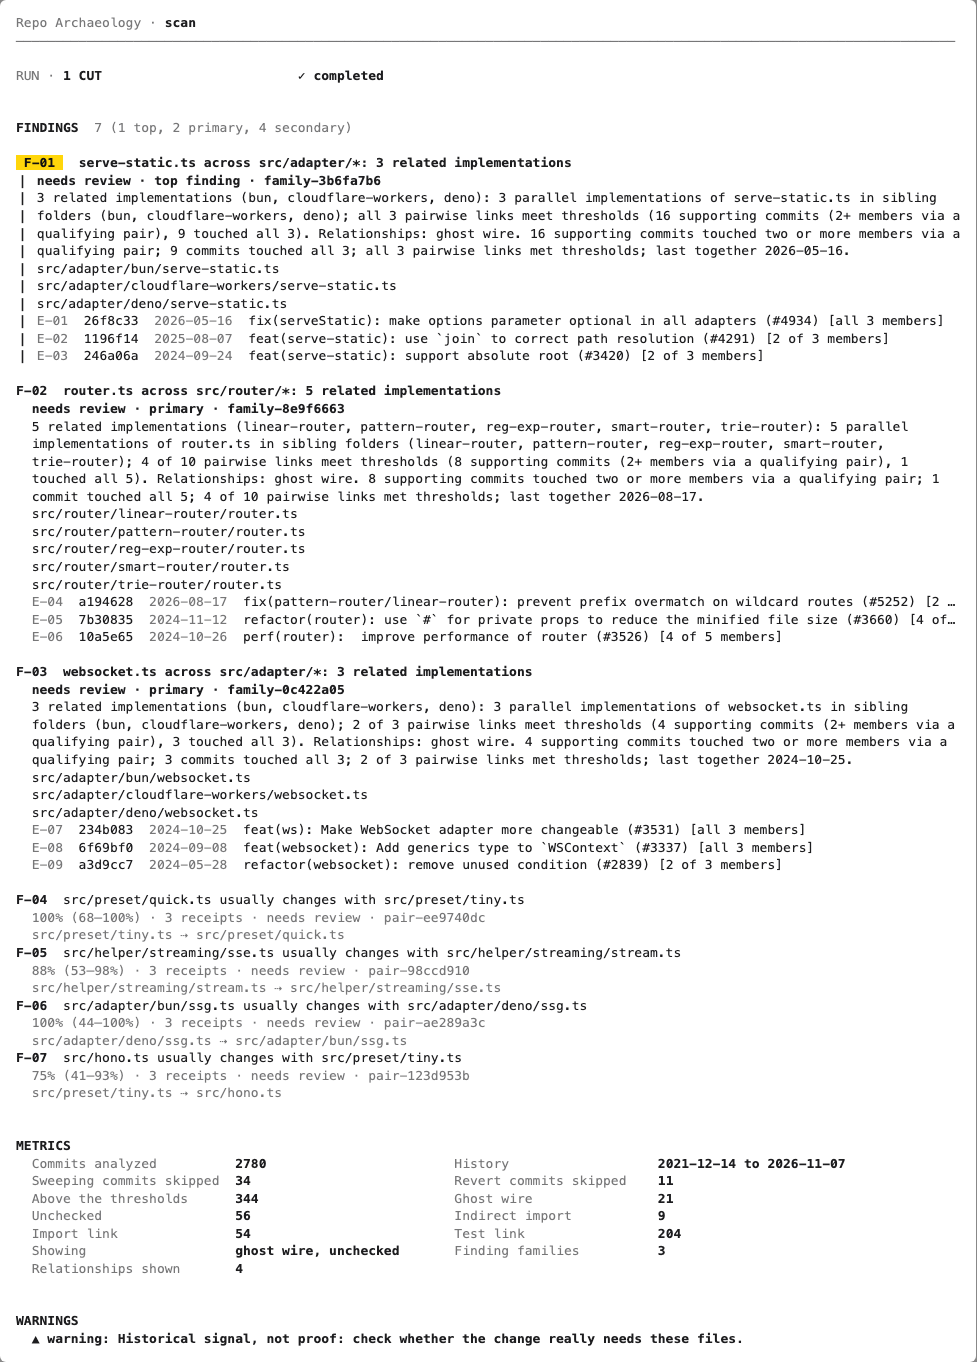
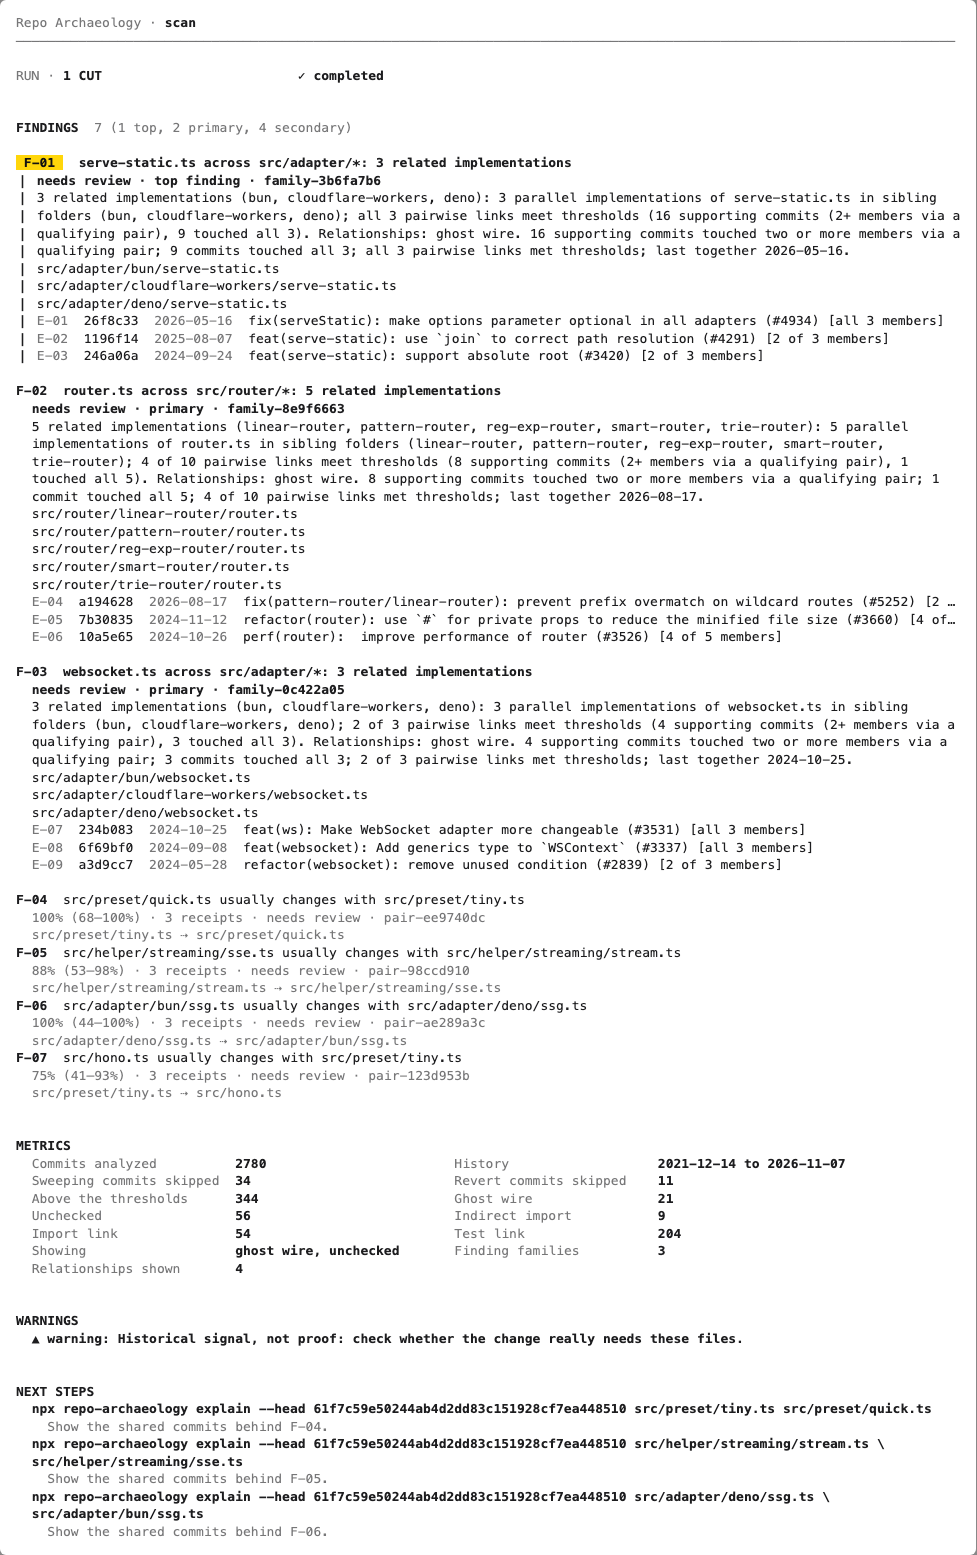
docs: next steps, FRAME12_* variables and the width rule match the code

diff --git a/README.md b/README.md
@@ -466,7 +466,7 @@ repo-archaeology diff --head <pr-sha> --base <base-sha> --config-from <base-sha>
 - one marker chip, on the top finding (`F-01`); the next two are primary cards and the rest compact lines;
 - **metrics**: the counts the classic output shows (commits analyzed, skipped sweeps and reverts, changed files, kinds, counterexamples...);
 - **warnings**: what to keep in mind (the historical-signal disclaimer, silence diagnostics, explain bounds);
-- **next steps**: copyable `explain` commands for the top findings (shell-quoted, wrapped with `\` continuations so they still run).
+- **next steps**: copyable `explain` commands for the first three relationships (shell-quoted, wrapped with `\` continuations so they still run), and for `explain`, the `--style classic` command that shows its patch hunks.
 
 Every number in rich output is a number from `--json` (percentages rounded the same way everywhere). `--json`, `--format markdown`, `classic` and the HTML map are byte-identical to before. `explain`'s patch hunks are not part of the rich layout; rich `explain` suggests the `--style classic` command that shows them.
 
@@ -492,7 +492,7 @@ The full gallery (`scan` and `diff` at 40, 80 and 120 columns, light and dark) i
 - **Screen readers:** `--screen-reader` (or `FRAME12_SCREEN_READER=1`) prints rich results as plain, append-only lines, one self-describing fact per line (`Finding F-01 strength: 51% (range 36-66%), co-change confidence (95% interval)`), with every receipt and full path, no glyphs, no escape sequences and no cursor movement. The progress spinner stays still.
 - **ASCII:** `--ascii` (or `FRAME12_ASCII=1`) uses the ASCII twin of every glyph (`[ok]`, `->`, `~>`, `#`); repository text keeps its own characters.
 - **Color:** `NO_COLOR` (or `--no-color`) turns color off; bold and dim remain on a terminal so the hierarchy survives, and no status depends on color alone: every status is also a word.
-- **Motion:** the only animation is the 12 fps progress spinner on stderr, which `NO_MOTION`, `REDUCED_MOTION`, `REPO_ARCHAEOLOGY_NO_MOTION`, CI, screen-reader mode and non-terminals keep still.
+- **Motion:** the only animation is the 12 fps progress spinner on stderr, which `NO_MOTION`, `REDUCED_MOTION`, `REPO_ARCHAEOLOGY_NO_MOTION`, `FRAME12_MOTION=still`, CI, screen-reader mode and non-terminals keep still.
 
 ### Dependencies
 

diff --git a/CHANGELOG.md b/CHANGELOG.md
@@ -13,6 +13,7 @@ Minor release.
   - Receipts are the commits `--json` lists in `evidence`; `--full-evidence` adds every stored supporting commit (the card lists 3 and counts the rest; screen-reader output lists all).
   - `explain`'s patch hunks are not part of the rich layout; rich `explain` suggests the `--style classic` command that shows them.
   - On a pipe or file, rich output has no escape sequences unless `FORCE_COLOR` asks (the package's linear rules).
+  - Capability precedence is the package's: a terminal's own width now wins over `COLUMNS` (pass `--columns` to override both), and `FRAME12_*` variables (`FRAME12_ASCII`, `FRAME12_LINKS`, `FRAME12_AMBIGUOUS_WIDE`, `FRAME12_SCREEN_READER`, `FRAME12_MOTION`) apply.
   - The track-record line is Repo Archaeology's shared sentence, as in classic and Markdown.
   - Diff CODEOWNERS handles are printed without `@` (the package strips the zero-width break classic uses to keep copied handles from pinging).
 - **Dependency policy:** runtime dependencies are now `commander`, `typescript` and `@frame12/terminal` (exact-pinned at 0.1.0; it brings `@frame12/tokens@0.2.0`). Its optional `ink` and `react` peers are not installed or loaded. Install size, measured by `scripts/install-size.mjs` from `npm pack` of 0.12.0 and this version: tarball +0.2 KB, installed `node_modules` +368.4 KB (+488 KB on disk, +62 files).
